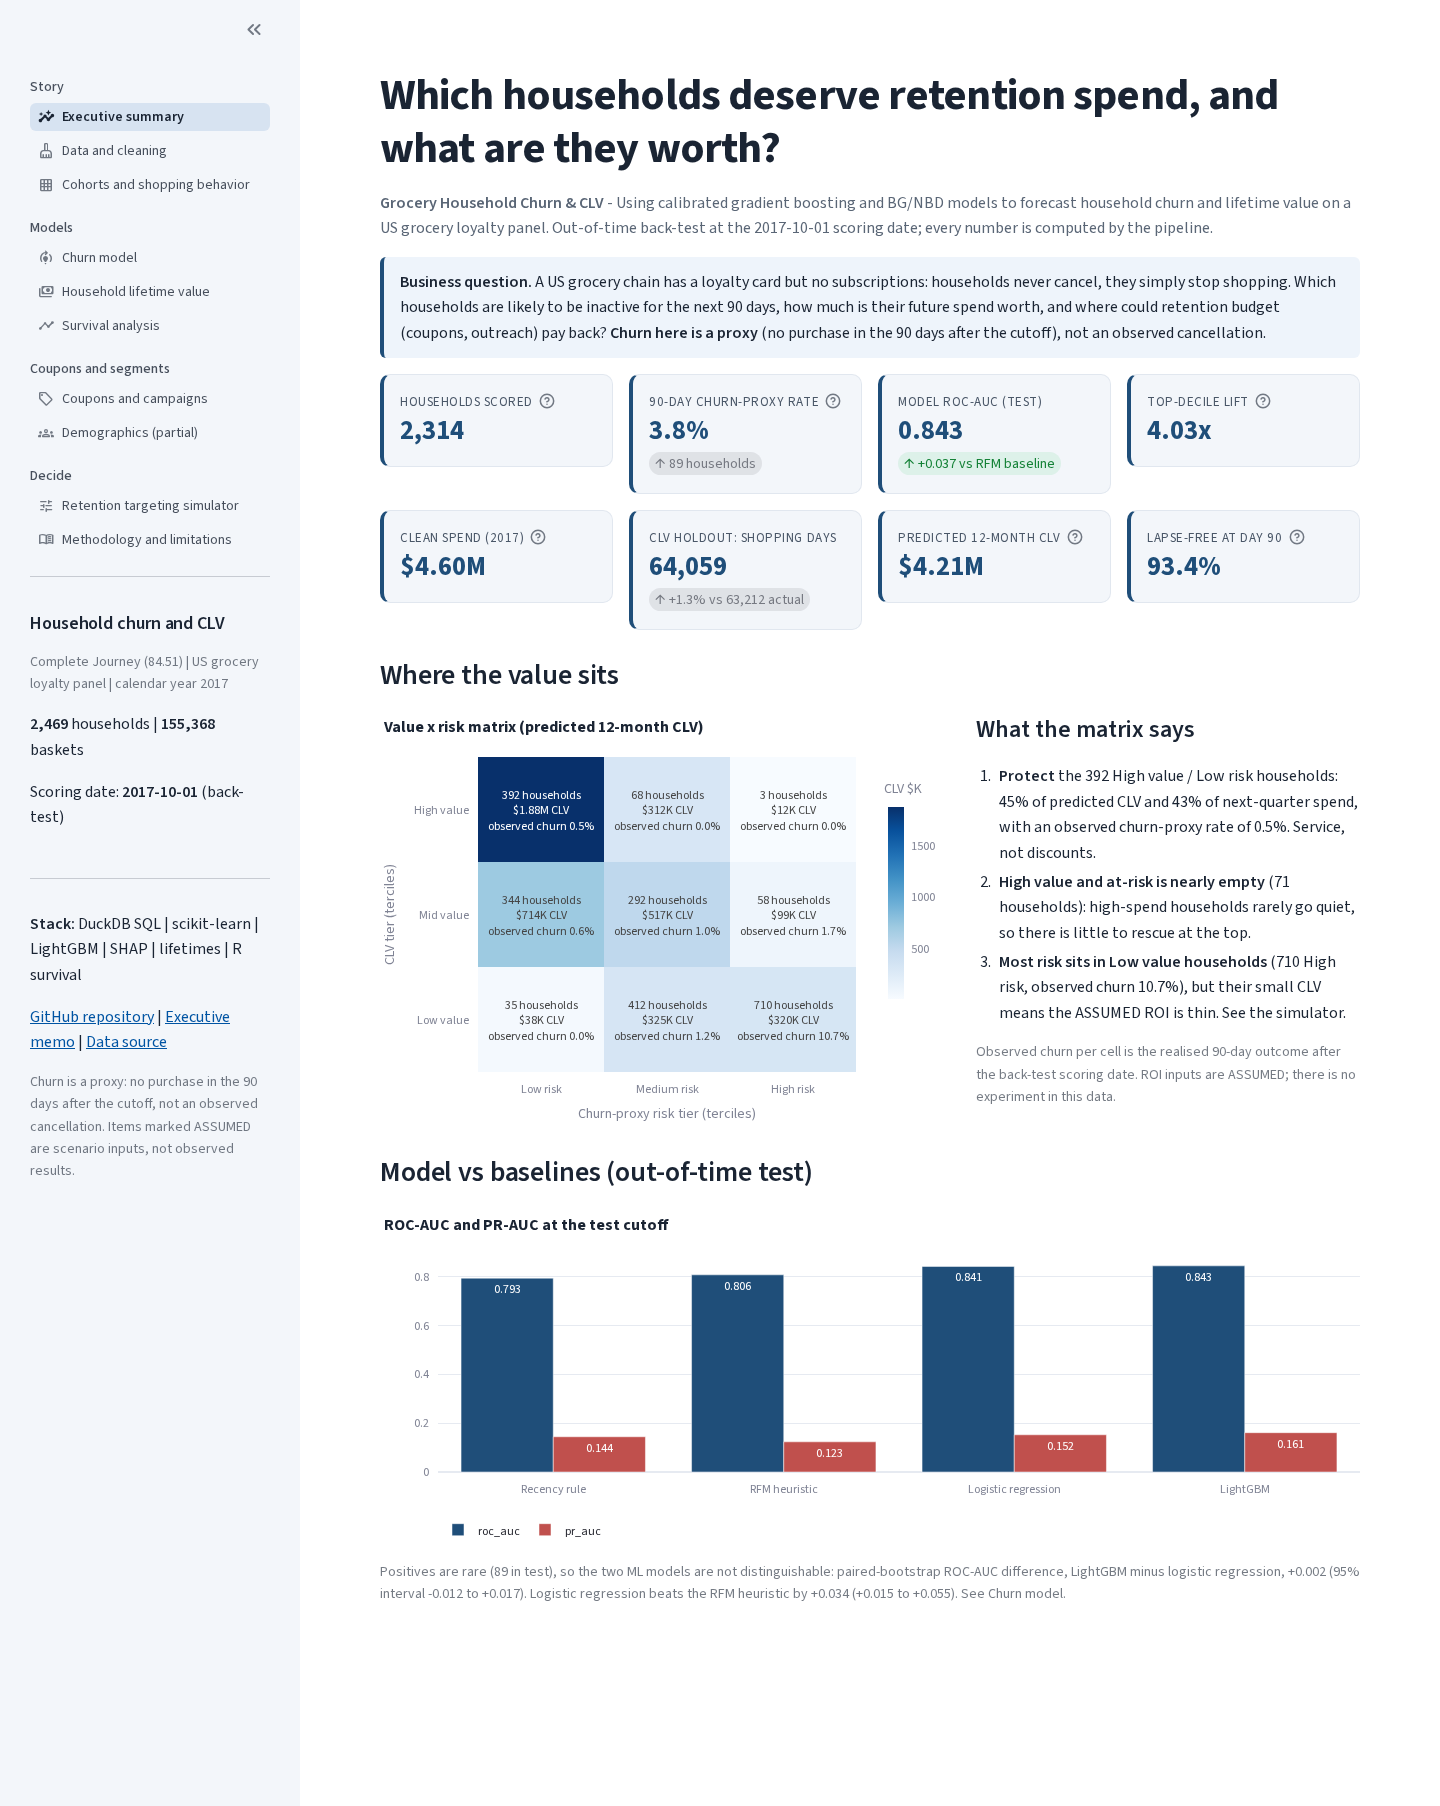
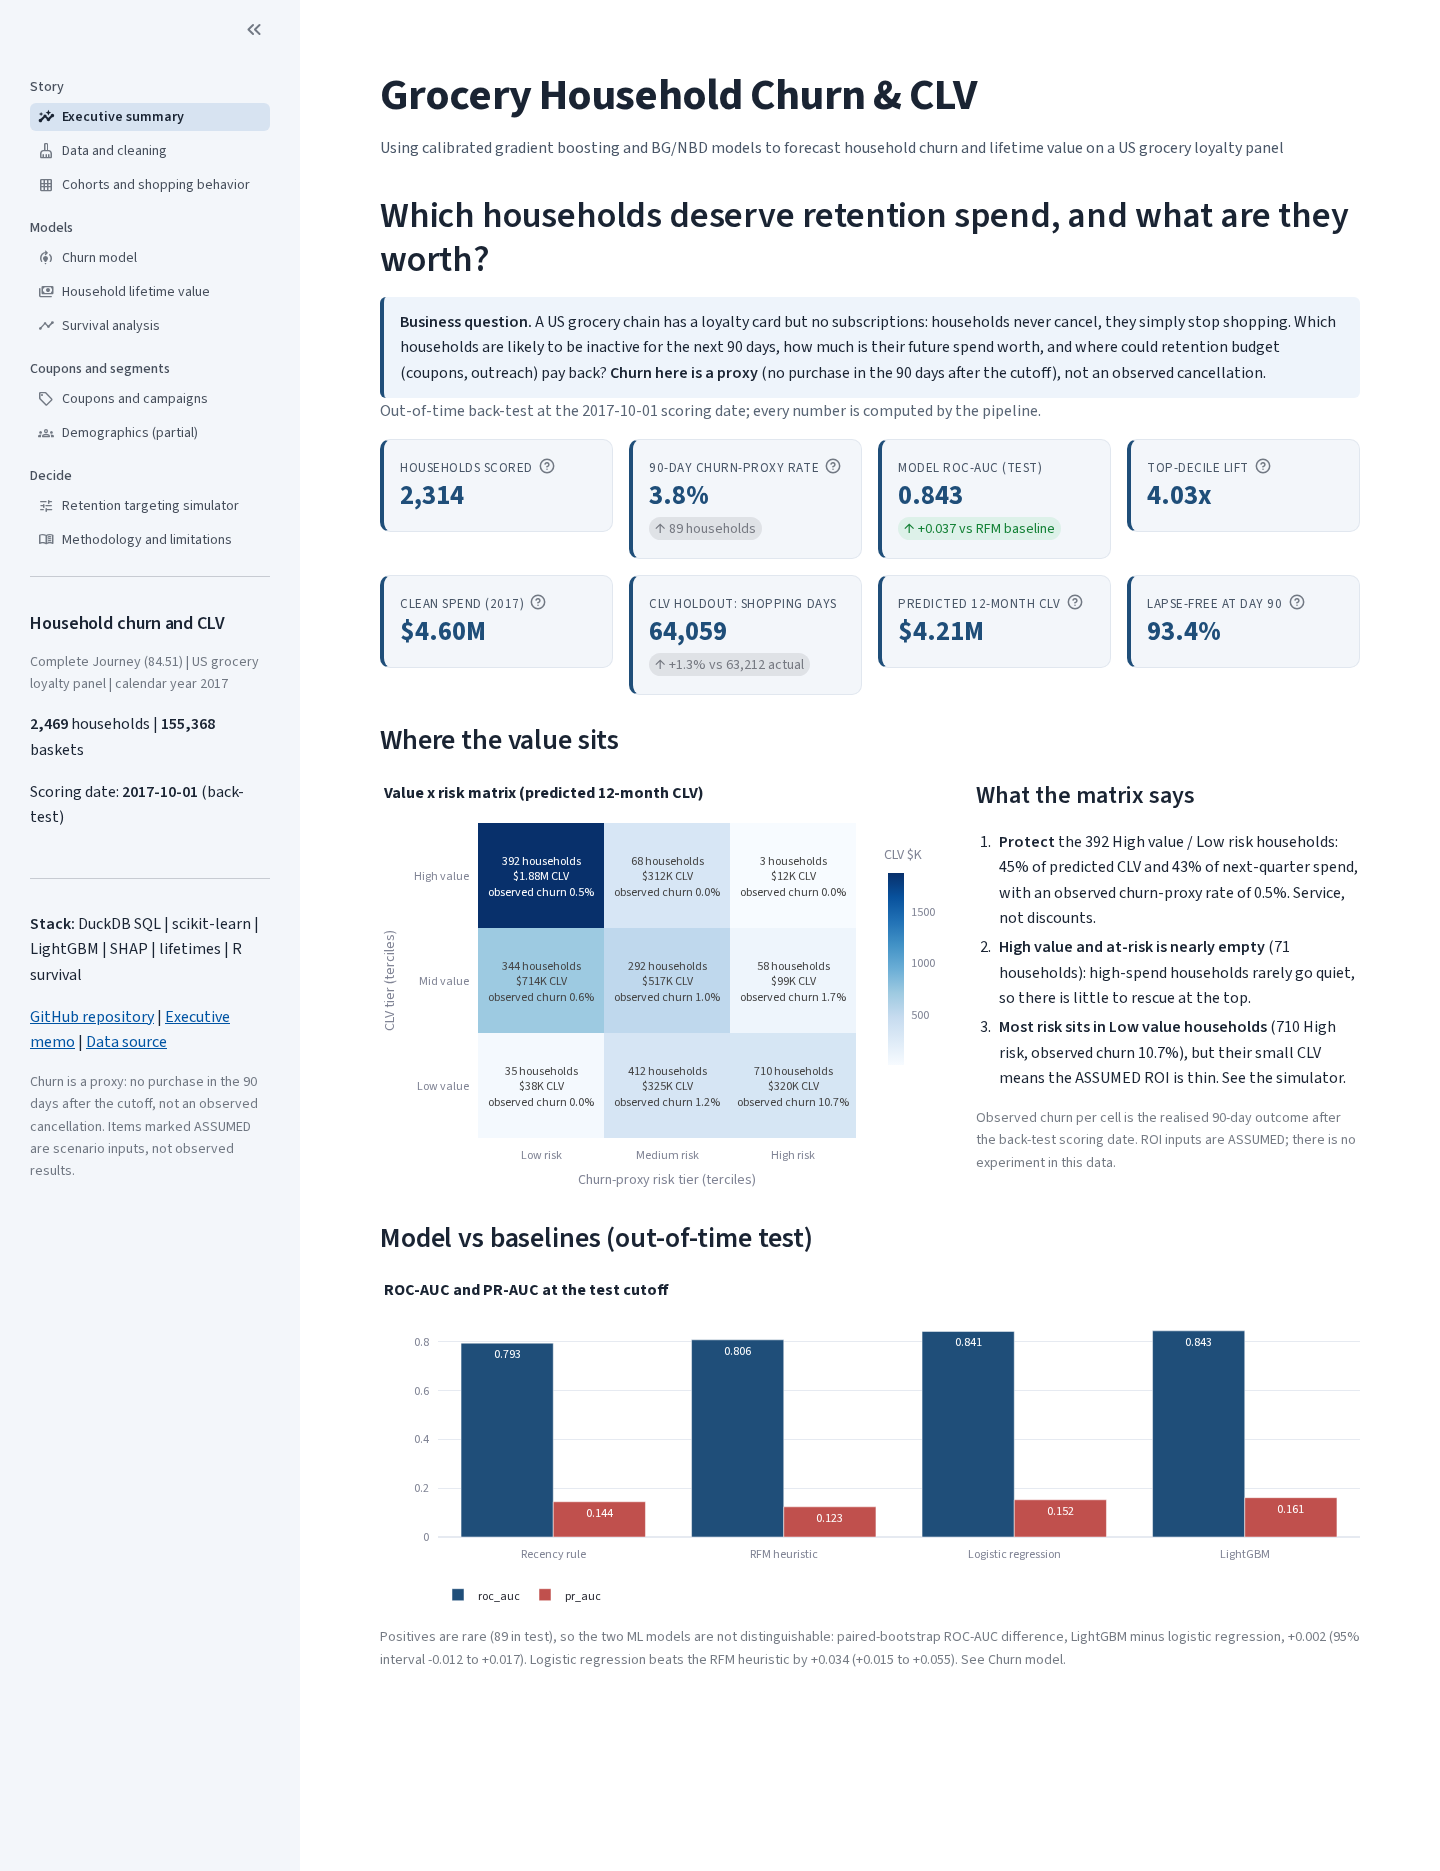
Overview: project prefix as headline with method line beneath, business question as its own prominent heading above the callout; refresh screenshot

diff --git a/app/core.py b/app/core.py
@@ -20,6 +20,7 @@ DATA_SOURCE = "https://github.com/bradleyboehmke/completejourney"
 TITLE_PREFIX = "Grocery Household Churn & CLV"
 TITLE_METHOD = ("Using calibrated gradient boosting and BG/NBD models to forecast household churn and lifetime value "
                 "on a US grocery loyalty panel")
+QUESTION = "Which households deserve retention spend, and what are they worth?"
 TITLE = f"{TITLE_PREFIX} - {TITLE_METHOD}"
 
 NAVY, RED, GREEN, PURPLE, ORANGE, TEAL, GREY = ("#1f4e79", "#c0504d", "#5b9a3c", "#8064a2", "#e8892b",
@@ -50,13 +51,22 @@ h2, h3 {font-weight: 600; letter-spacing: -0.01em;}
 .assumed {background:#fff4e5; border:1px solid #f5c27a; border-radius:8px; padding:10px 14px; color:#7a4a00;}
 .callout {background:#eef4fb; border-left:4px solid #1f4e79; border-radius:6px; padding:12px 16px;}
 .small {font-size:0.85rem; color:#5a6676;}
+.tagline {font-size:1.05rem; color:#4a5768; margin:-0.4rem 0 1.2rem 0; line-height:1.4;}
+.headline-question {font-size:1.9rem; font-weight:700; letter-spacing:-0.01em; color:#1f4e79; line-height:1.25;
+  margin:0.2rem 0 1rem 0;}
 </style>
 """
 
 
-def setup_page(title: str, subtitle: str | None = None) -> None:
+def setup_page(title: str, subtitle: str | None = None, tagline: str | None = None,
+               question: str | None = None) -> None:
+    """Page header. Optional tagline (smaller line directly under the title) and question (prominent heading)."""
     st.markdown(CSS, unsafe_allow_html=True)
     st.title(title)
+    if tagline:
+        st.markdown(f"<p class='tagline'>{tagline}</p>", unsafe_allow_html=True)
+    if question:
+        st.markdown(f"<h2 class='headline-question'>{question}</h2>", unsafe_allow_html=True)
     if subtitle:
         st.markdown(f"<p class='small'>{subtitle}</p>", unsafe_allow_html=True)
 

diff --git a/tests/test_app.py b/tests/test_app.py
@@ -9,7 +9,7 @@ from streamlit.testing.v1 import AppTest  # noqa: E402
 
 ROOT = Path(__file__).resolve().parents[1]
 APP = ROOT / "app" / "streamlit_app.py"
-PAGES = {"overview": "retention spend", "data_cleaning": "Data and cleaning", "cohorts": "Cohorts",
+PAGES = {"overview": "Grocery Household Churn & CLV", "data_cleaning": "Data and cleaning", "cohorts": "Cohorts",
          "churn_model": "Churn-proxy model", "clv": "lifetime value", "survival": "Survival",
          "campaigns": "Coupons and campaigns", "demographics": "Demographics", "targeting": "targeting simulator",
          "methodology": "Methodology"}
@@ -89,4 +89,11 @@ def test_project_title_is_prefixed_and_consistent():
     assert (ROOT / "README.md").read_text().splitlines()[0] == f"# {FULL_TITLE}"
     at = AppTest.from_file(str(APP), default_timeout=120).run()
     assert not at.exception
-    assert any(core.TITLE_PREFIX in m.value and core.TITLE_METHOD in m.value for m in at.markdown)
+    assert at.title[0].value == core.TITLE_PREFIX
+    md = [m.value for m in at.markdown]
+    i_method = next(i for i, v in enumerate(md) if core.TITLE_METHOD in v and "tagline" in v)
+    i_question = next(i for i, v in enumerate(md) if core.QUESTION in v and "headline-question" in v)
+    i_callout = next(i for i, v in enumerate(md) if "Business question." in v and "callout" in v)
+    assert i_method < i_question < i_callout          # title, method line, question heading, business callout
+    assert core.QUESTION not in md[i_callout]         # question is its own element, not inside the callout
+    assert any("scoring date" in v for v in md)       # out-of-time back-test note kept

diff --git a/app/views/overview.py b/app/views/overview.py
@@ -1,6 +1,7 @@
 import plotly.express as px
 import streamlit as st
 from core import (
+    QUESTION,
     RISK_ORDER,
     TITLE_METHOD,
     TITLE_PREFIX,
@@ -17,15 +18,14 @@ from core import (
 
 s = summary()
 sq, tr, cl, tg = s["sql_summary"], s["train_summary"], s["clv_summary"], s["targeting_summary"]
-setup_page("Which households deserve retention spend, and what are they worth?",
-           f"<b>{TITLE_PREFIX}</b> - {TITLE_METHOD}. Out-of-time back-test at the {s['config']['churn']['test_cutoff']} scoring date; "
-           "every number is computed by the pipeline.")
+setup_page(TITLE_PREFIX, tagline=TITLE_METHOD, question=QUESTION)
 
 callout("<b>Business question.</b> A US grocery chain has a loyalty card but no subscriptions: households never "
         "cancel, they simply stop shopping. Which households are likely to be inactive for the next 90 days, how much "
         "is their future spend worth, and where could retention budget (coupons, outreach) pay back? "
         "<b>Churn here is a proxy</b> (no purchase in the 90 days after the cutoff), not an observed cancellation.")
-st.write("")
+st.markdown(f"<p class='small'>Out-of-time back-test at the {s['config']['churn']['test_cutoff']} scoring date; "
+            "every number is computed by the pipeline.</p>", unsafe_allow_html=True)
 
 m = test_metrics().set_index(["model", "calibration"])
 fm = final_row()
